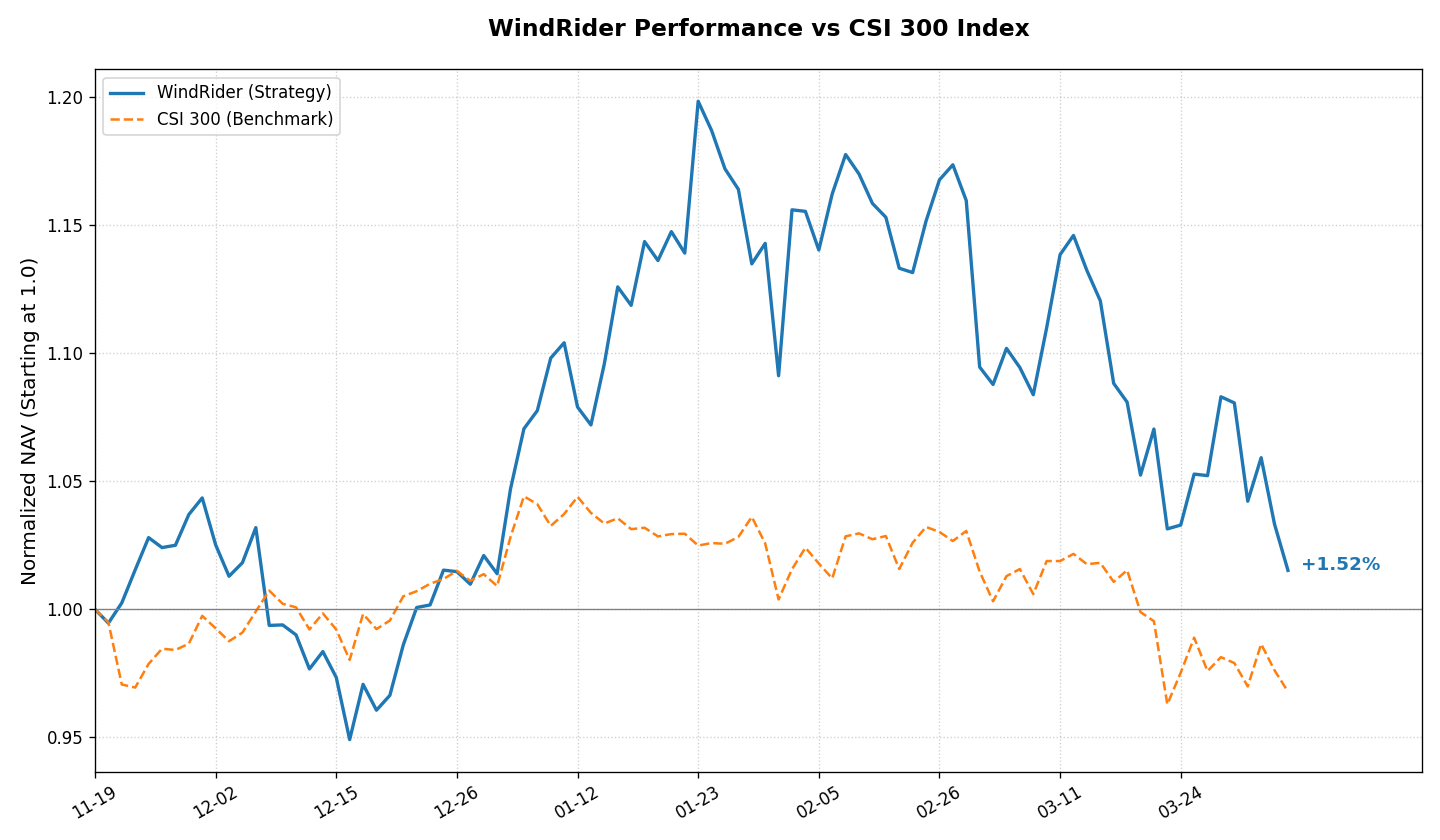
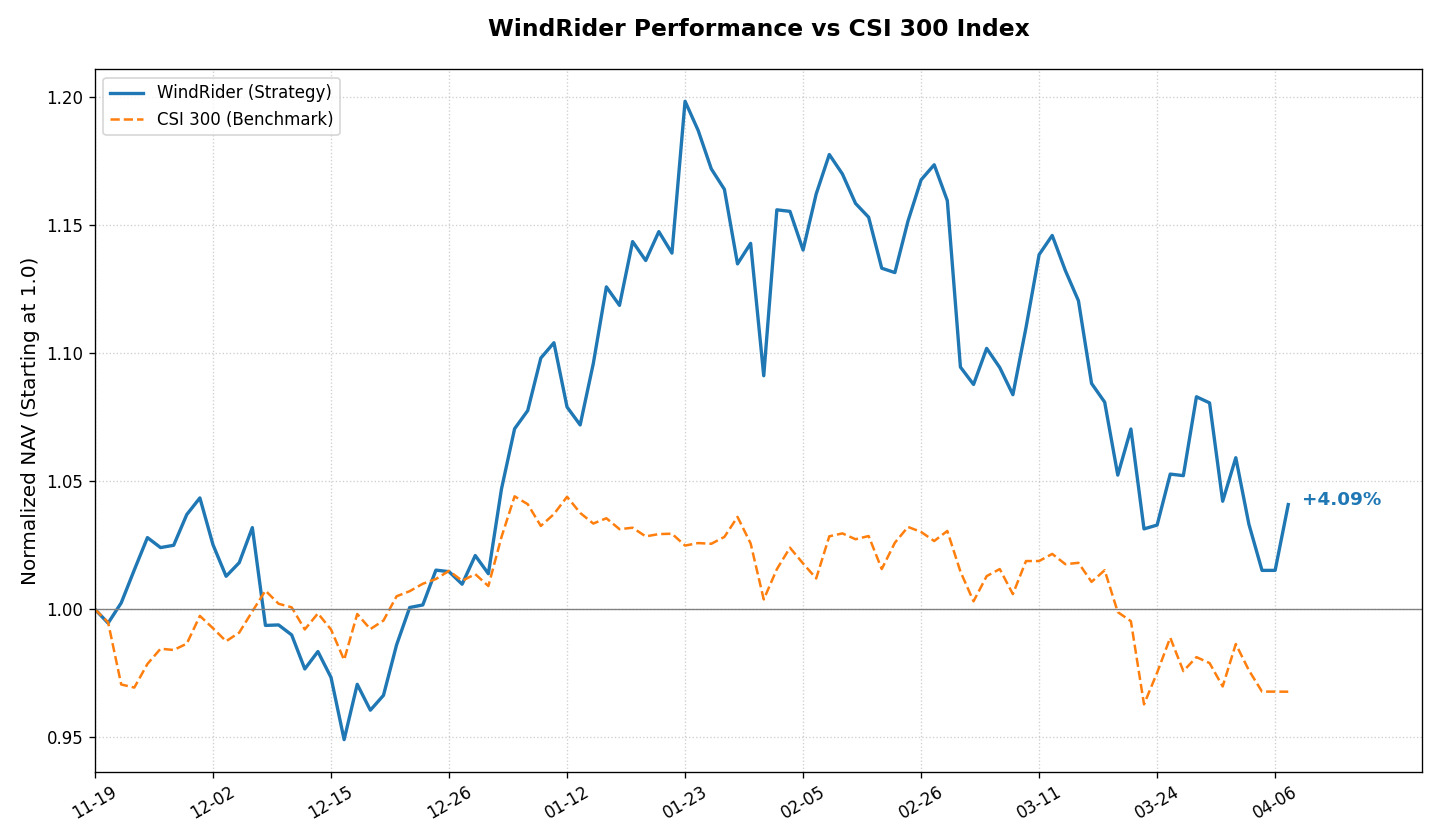
Updated Hugo site content

diff --git a/content/investment/position.md b/content/investment/position.md
@@ -1,8 +1,8 @@
 +++
 title = "如山-股票组合持仓 /// Position"
 summary = "主动管理型股票组合。对标沪深300指数，采用基本面选股策略。"
-date = 2026-04-03T15:12:04+08:00
-lastmod = 2026-04-03T15:12:04+08:00
+date = 2026-04-07T15:12:05+08:00
+lastmod = 2026-04-07T15:12:05+08:00
 draft = false
 description = "如山股票组合持仓"
 +++
@@ -12,29 +12,29 @@ description = "如山股票组合持仓"
 
 ### 风舵股票组合 &nbsp;&nbsp;<span style="color: #E63946; font-weight: bold;">/</span><span style="color: #F1A73E; font-weight: bold;">/</span><span style="color: #000091; font-weight: bold;">/</span>&nbsp;&nbsp; 每日持仓
 WindRider Equity Portfolio <br>
-净值简报 <small>(截至: 2026-04-03)</small>
+净值简报 <small>(截至: 2026-04-07)</small>
 
 |  |  |
 | :--- | :--- |
 | **指数代码：** | WDR.EQ |
 | **成立日期：** | 2025-11-19 |
-| **最新净值：** | 1.0152 |
-| **今日涨跌：** | -1.74% |
+| **最新净值：** | 1.0409 |
+| **今日涨跌：** | +2.53% |
 
 ===========================
 
 | 核心表现 | |
 | :--- | :--- |
-| **累计收益：** | +1.52% |
-| **年化收益：** | +4.16% |
+| **累计收益：** | +4.09% |
+| **年化收益：** | +11.10% |
 | **最大回撤：** | -15.29% |
-| **基准点位：** | 4440.79 (CSI300) |
-| **策略状态：** | 已运行 136 天 |
+| **基准点位：** | 4440.62 (CSI300) |
+| **策略状态：** | 已运行 140 天 |
 
 ### 持仓明细
 | 股票名称 | 成本价 | 现价 | 盈亏 | 占比 |
 | :--- | :--- | :--- | :--- | :--- | :--- |
-| 先导智能 <small>300450</small> | 52.17 | 46.35 | <span style="color:#2A9D8F">-11.15%</span> | 97.96% |
+| 先导智能 <small>300450</small> | 52.17 | 47.55 | <span style="color:#2A9D8F">-8.85%</span> | 98.01% |
 
 <br>
 
